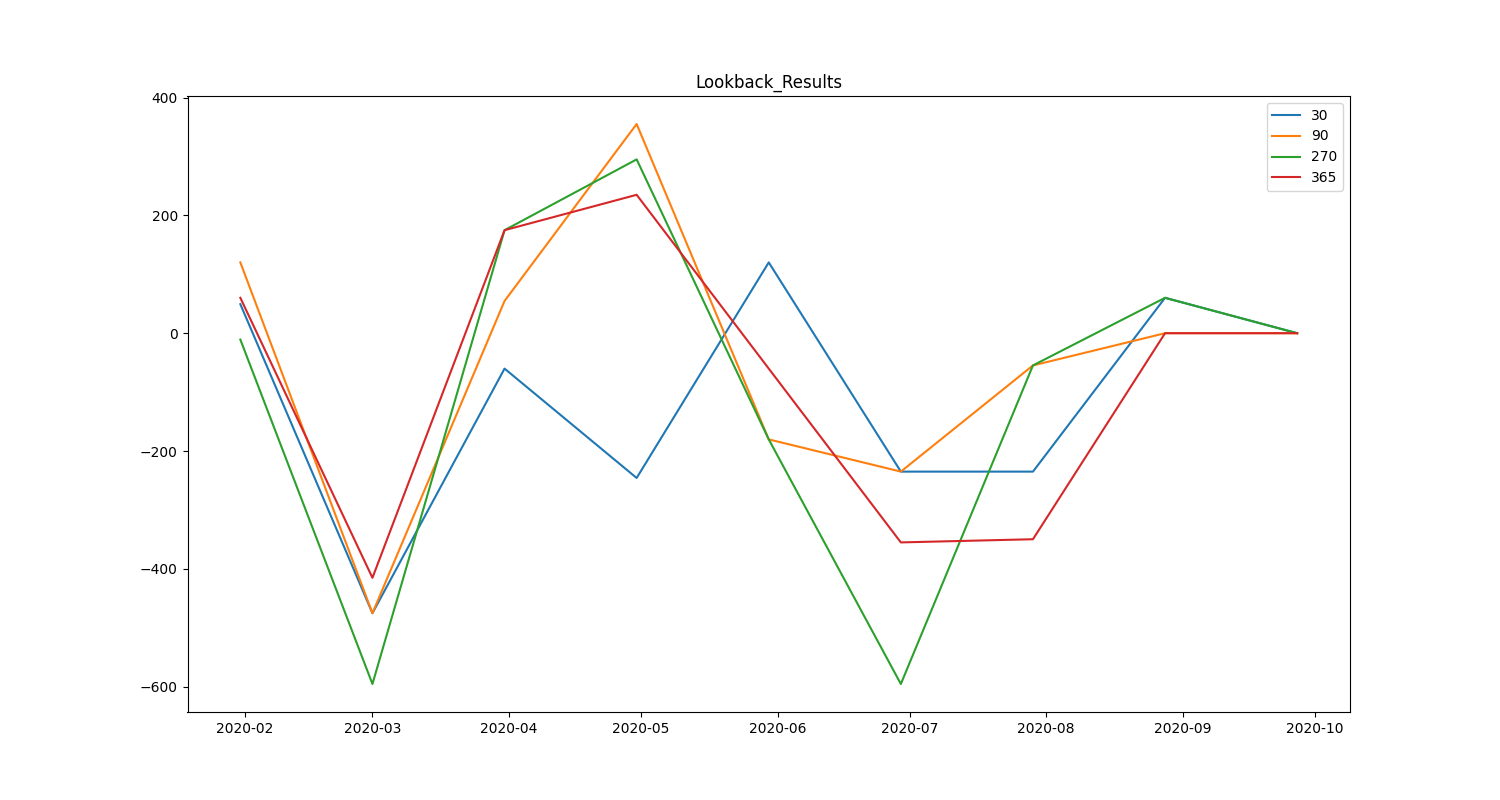
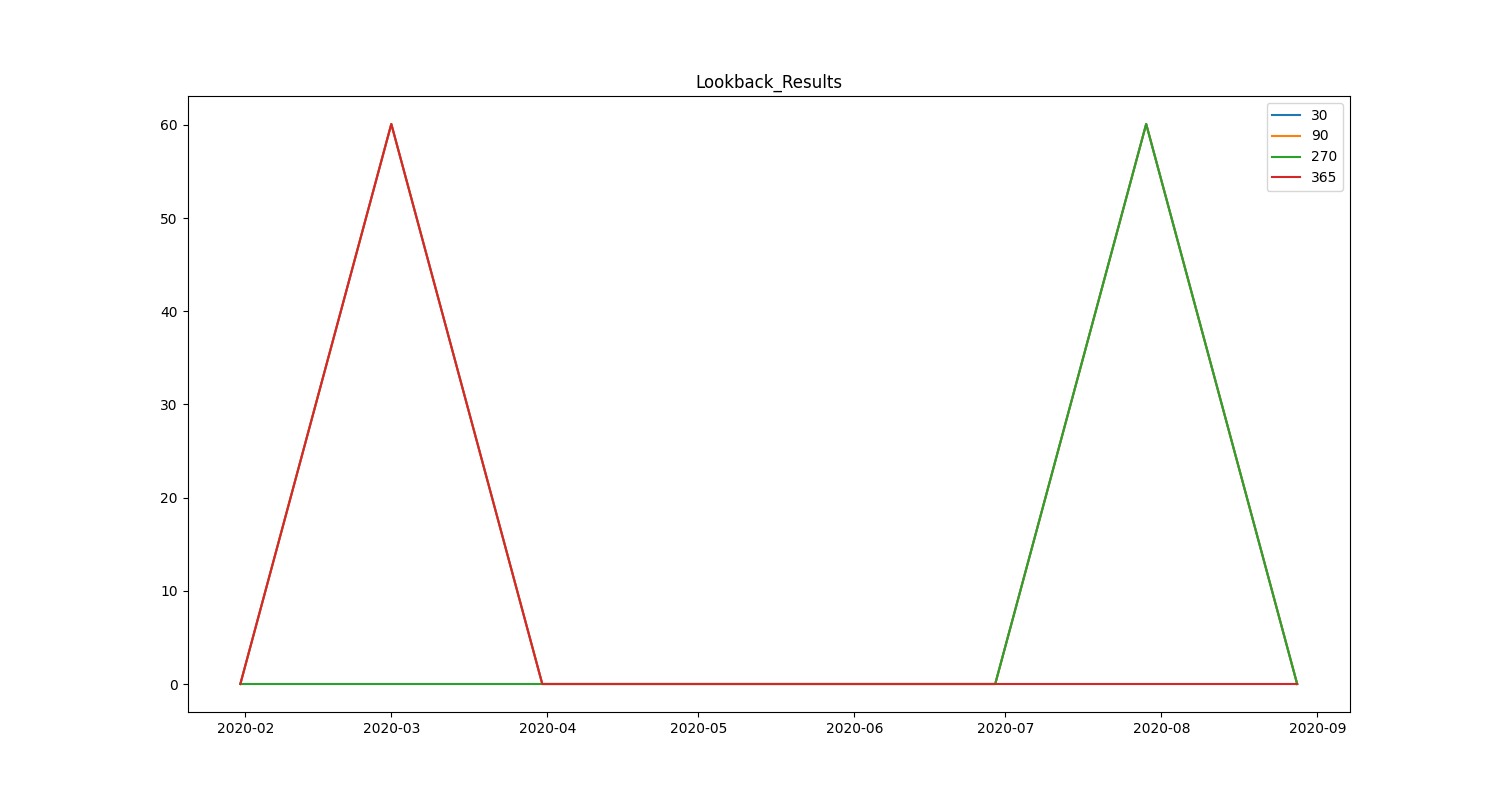
Feature: Complete run :)

diff --git a/src/maxmind_ip/TrainingModel.py b/src/maxmind_ip/TrainingModel.py
@@ -208,23 +208,29 @@ class TrainingModel:
 
             today = data[(data['when_created'] >= date)
                          & (data['when_created'] < date + datetime.timedelta(days=parm['step']))].copy()
-            today = score(today, thresholds, 'risk_score', 'real_result')
-            today['weight'] = 1
+            if len(today) > 0:
+                today = score(today, thresholds, 'risk_score', f"real_result")
+                today['weight'] = 1
 
-            r, today = cal_impact(today, 'today_result', 'real_result', self.costs)
-            data.loc[today.index, f"real_result_{parm['lookback']}_{parm['step']}"] = today['real_result']
-            data.loc[today.index, f"real_result_cost_{parm['lookback']}_{parm['step']}"] = today['real_result_cost']
-            data.loc[today.index, f"today_result_cost_{parm['lookback']}_{parm['step']}"] = today['today_result_cost']
-            data.loc[today.index, 'grp'] = grp
-            for corridor, g in today.groupby('corridor'):
-                if corridor in thresholds.keys():
-                    data.loc[g.index, 'thr_top'] = thresholds[corridor]['threshold_top']
-                    data.loc[g.index, 'thr_bottom'] = thresholds[corridor]['threshold_bottom']
-                else:
-                    data.loc[g.index, 'thr_top'] = np.nan
-                    data.loc[g.index, 'thr_bottom'] = np.nan
-            impacts.append(r)
-            dates.append(date)
+                r, today = cal_impact(today,
+                                      'today_result',
+                                      f"real_result",
+                                      self.costs)
+                data.loc[today.index, f"real_result_{parm['lookback']}_{parm['step']}"] = today['real_result']
+                data.loc[today.index, f"real_result_cost_{parm['lookback']}_{parm['step']}"] = today['real_result_cost']
+                data.loc[today.index, f"today_result_cost_{parm['lookback']}_{parm['step']}"] = today['today_result_cost']
+                data.loc[today.index, 'grp'] = grp
+                for corridor, g in today.groupby('corridor'):
+                    if corridor in thresholds.keys():
+                        data.loc[g.index, 'thr_top'] = thresholds[corridor]['threshold_top']
+                        data.loc[g.index, 'thr_bottom'] = thresholds[corridor]['threshold_bottom']
+                    else:
+                        data.loc[g.index, 'thr_top'] = np.nan
+                        data.loc[g.index, 'thr_bottom'] = np.nan
+                impacts.append(r)
+                dates.append(date)
+            else:
+                logger.info(f"Today had len 0 at date {date}")
 
         return impacts, dates
 
@@ -284,7 +290,7 @@ class TrainingModel:
         title = 'Lookback_Results'
         delayed_results = dask.compute(*delayed_results)
         for lookback, result in zip(lookbacks, delayed_results):
-            matrix[lookback] = {'y': delayed_results[0], 'x': delayed_results[1]}
+            matrix[lookback] = {'y': result[0], 'x': result[1]}
         self.plot(matrix, title, f"{self.dir_path}/plots/{title}.png")
         scores = [(l, sum(matrix[l]['y'])) for l in matrix.keys()]
         scores.sort(key=lambda tup: tup[1], reverse=True)

diff --git a/src/maxmind_ip/utils.py b/src/maxmind_ip/utils.py
@@ -1,5 +1,6 @@
 import numpy as np
 import pandas as pd
+import logging
 
 
 def predict(g: pd.DataFrame,
@@ -73,13 +74,18 @@ def outcome(df: pd.DataFrame, costs: dict, col: str, name: str = 'cost') -> (flo
         Return int: total cost
                 DataFrame: The df DataFrame now containing a "cost" column
     """
-    df.loc[:, name] = np.nan
-    df.loc[df.index, name] = np.where(df[col] == 'fp', costs['cost_fp'] * df['weight'], df[name])
-    df.loc[df.index, name] = np.where(df[col] == 'tp', costs['cost_tp'] * df['weight'], df[name])
-    df.loc[df.index, name] = np.where(df[col] == 'tn', costs['cost_tn'] * df['weight'], df[name])
-    df.loc[df.index, name] = np.where(df[col] == 'fn', costs['cost_fn'] * df['weight'], df[name])
+    if len(df) != 0:
+        df.loc[df.index, name] = np.nan
+        df.loc[df.index, name] = np.where(df[col] == 'fp', costs['cost_fp'] * df['weight'], df[name])
+        df.loc[df.index, name] = np.where(df[col] == 'tp', costs['cost_tp'] * df['weight'], df[name])
+        df.loc[df.index, name] = np.where(df[col] == 'tn', costs['cost_tn'] * df['weight'], df[name])
+        df.loc[df.index, name] = np.where(df[col] == 'fn', costs['cost_fn'] * df['weight'], df[name])
+        total_cost = float(df[name].sum())
+    else:
+        logging.info("Outcome DataFrame is Empty")
+        total_cost = 0
 
-    return float(df[name].sum()), df
+    return total_cost, df
 
 
 def reconcile(df: pd.DataFrame, prediction: str, truth: str, name: str) -> pd.DataFrame:

diff --git a/testing/development.py b/testing/development.py
@@ -10,7 +10,7 @@ from dask.distributed import Client
 def main(client):
     start = time.time()
     maxmind = MaxmindIp()
-    data = maxmind.train(client, reset_lookback=True, reset_step=False, sample_size=200, repetitions=100)
+    data = maxmind.train(client, reset_lookback=True, reset_step=False, sample_size=200, repetitions=5)
 
 
 if __name__ == "__main__":
